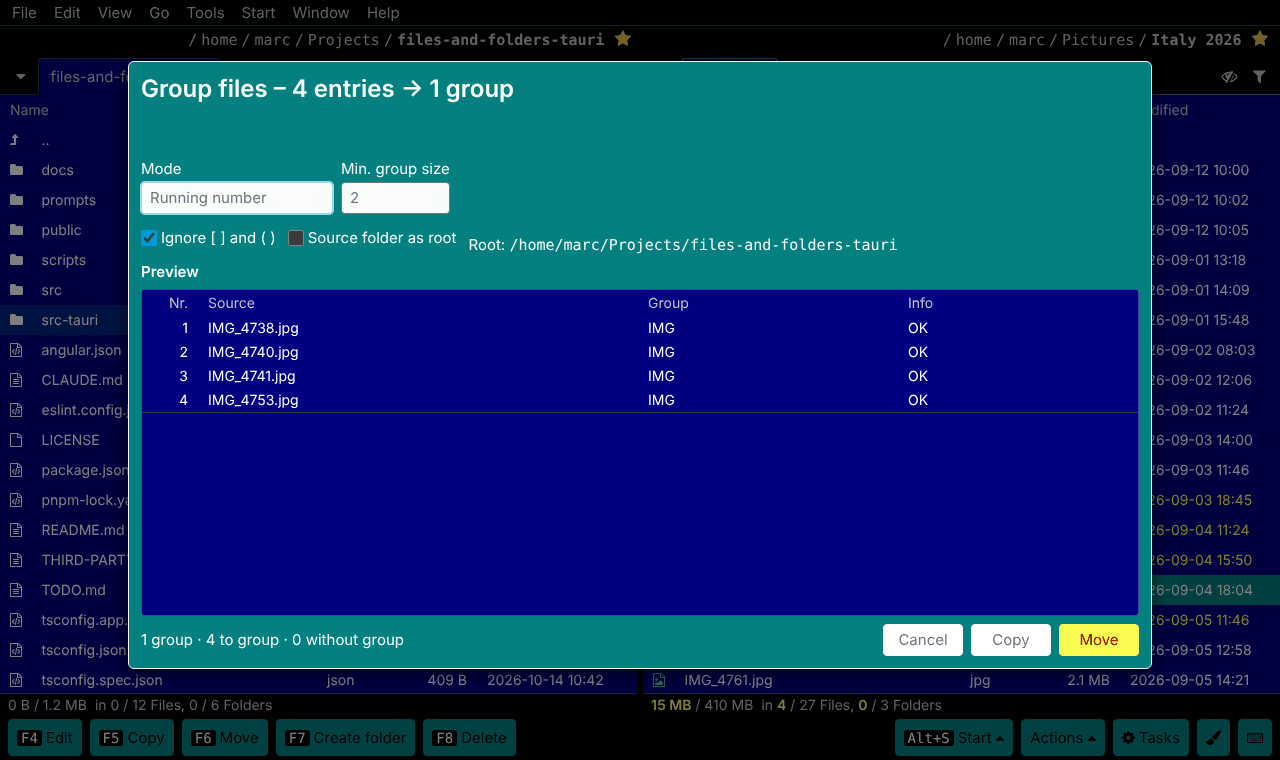
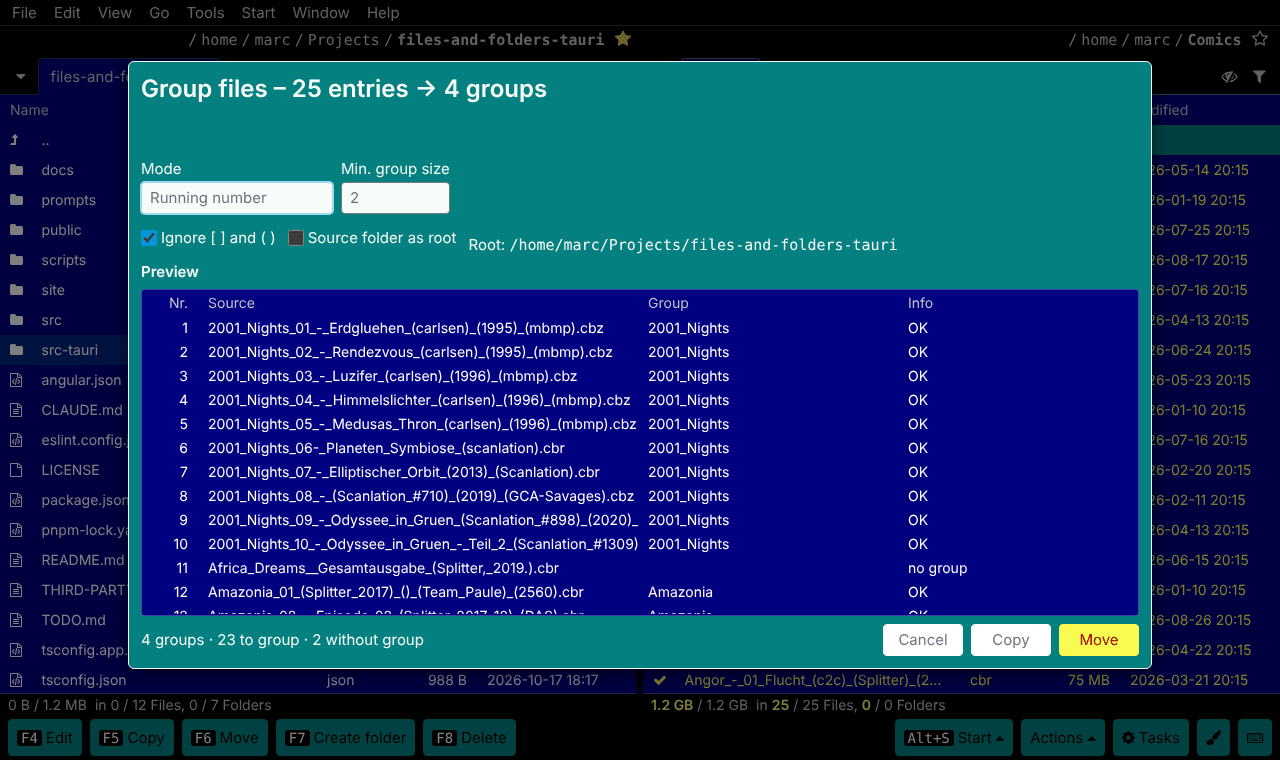
fix(groupfiles): führende Zahl bleibt im Gruppennamen, Vorschau einzeilig, Comic-Beispiel
- Laufende Nummer: „2001_Nights_06 …“ → Gruppe „2001_Nights“ statt „Nights“ (Testfälle im Katalog)
- Table-Zellen mit Standard-Renderer bleiben einzeilig (Core setzt ellipsis ohne nowrap;
  TODO(guiexpert))
- Screenshot-Demo: Ordner ~/Comics mit Marcs Beispiel, Szene group-files-dialog dort;
  README-Bild organize.png und site/img/group-files-dialog.png neu

Claude-Session: https://claude.ai/code/session_015KtRonMiiMdRr2sLBeoCGi

diff --git a/src/styles/ge-table-theme.css b/src/styles/ge-table-theme.css
@@ -86,6 +86,13 @@
   line-height: var(--fnf-header-height, 2.5);
 }
 
+/* Cells with the table's default renderer: one line, cut with "…" – the core sets text-overflow
+   without nowrap, so long names (group files preview: comic archives) wrapped into a hidden 2nd line.
+   TODO(guiexpert): white-space: nowrap on .ge-table-label-div in packages/table/css/main.css */
+.ge-table .ge-table-col-div[data-area='body'] .ge-table-label-div {
+  white-space: nowrap;
+}
+
 /* Cell content of our own renderers (same inner spacing as the table's label div). */
 .ge-table .fnf-cell {
   padding-inline: 10px;

diff --git a/src/app/features/groupfiles/group-engine.ts b/src/app/features/groupfiles/group-engine.ts
@@ -97,7 +97,9 @@ export function groupOf(rawName: string, o: GroupOptions): string | null {
       const digits = name.match(DIGIT_RUNS);
       const words = name.match(NON_DIGIT_RUNS);
       if (digits && digits.length >= 1 && words && words.length >= 2) {
-        group = words[0]
+        // a name that starts with a number keeps it: "2001_Nights_06" → "2001_Nights"
+        const lead = name.startsWith(digits[0]) ? digits[0] : '';
+        group = (lead + words[0])
           .replace(/#/g, '')
           .replace(/ Band /g, '')
           .replace(/'/g, '')
